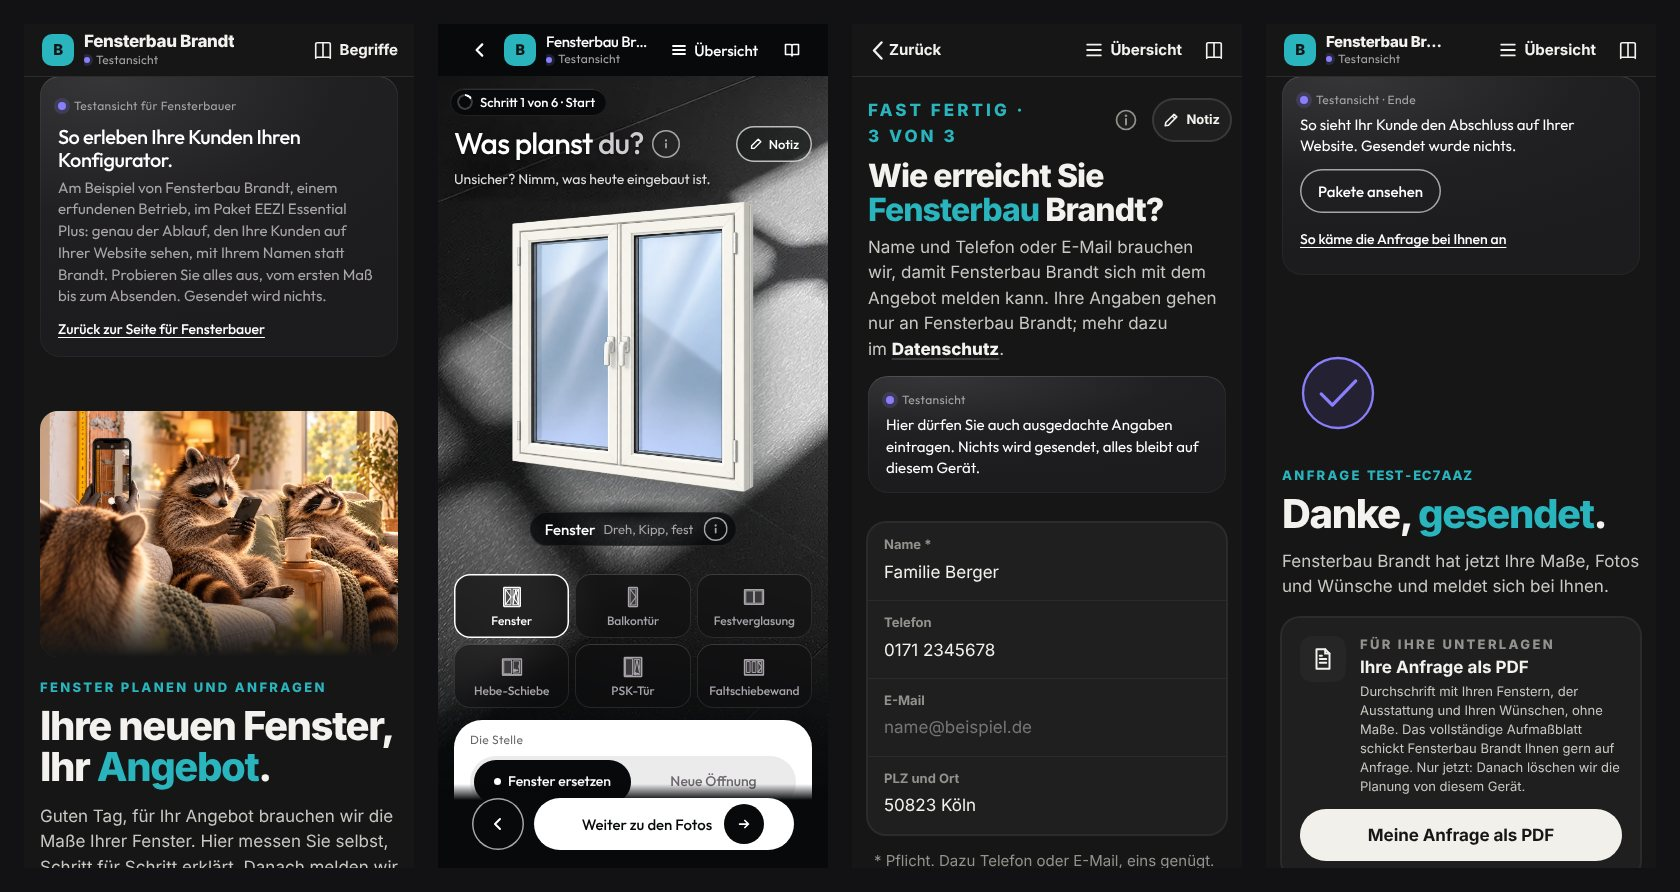
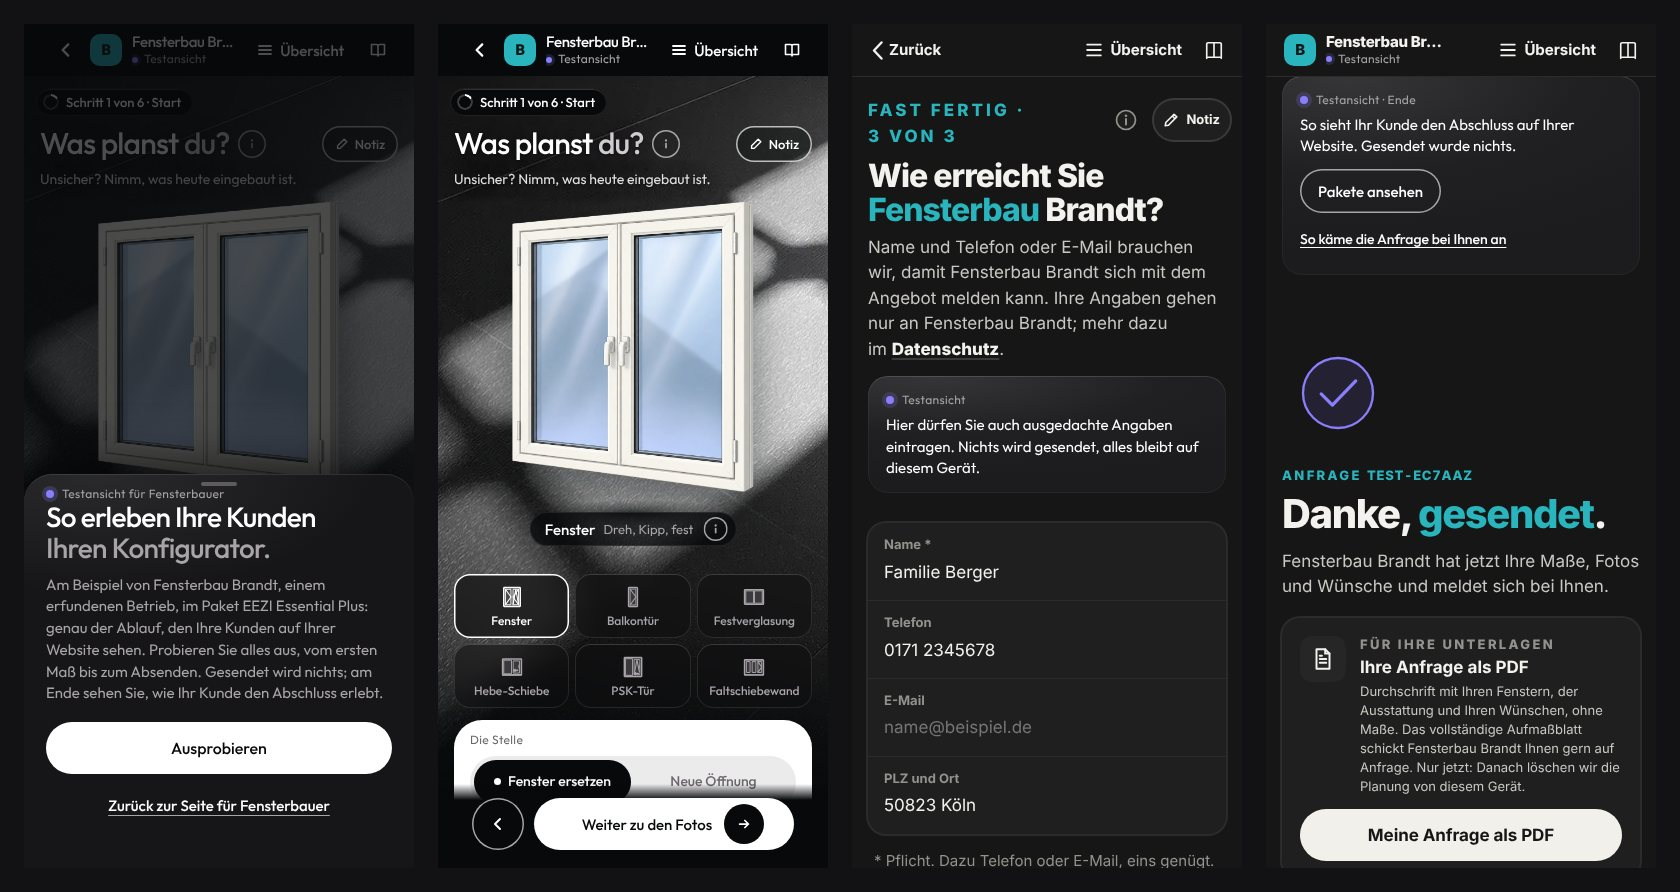
Testansicht beginnt auf der ersten Folie, Hinweis als Bogen darüber
„Selbst ausprobieren“ und „Fenster planen“ öffnen gleich die Folie „Was planst
du?“ (ein angefangenes Fenster wird fortgesetzt, ein abgeschlossener Test beginnt
neu). Beim ersten Öffnen im Tab liegt der Hinweis „Testansicht für Fensterbauer“
als Bogen darüber (Beispielbetrieb, Paket, „Gesendet wird nichts“, „Ausprobieren“,
Weg zurück); Escape und Zurück schließen ihn. Prüfung 25.11 und Doku angepasst.

Claude-Session: https://claude.ai/code/session_0184P5fGdniWcDaYecSm6W1G

Changed region(s): [[0.0, 0.0303, 0.2476, 0.9686]]

diff --git a/web/assets/app.js b/web/assets/app.js
@@ -2551,13 +2551,14 @@ function instanzWeitere() {
   return instanzStart().then((ok) => { if (ok) newWin(); else go('home'); });
 }
 /* „Auf diesem Gerät vergessen“: auch Nummer und Datum weg */
-function instanzVergessen() {
+function instanzVergessen(leise) { // leise: ohne Wechsel zur Startseite und ohne Meldung (Testansicht beginnt neu)
   instanzKuerzen();
   const alt = S.betrieb && S.betrieb.code;
   if (alt) { try { localStorage.removeItem('aufmass.k.' + alt); localStorage.removeItem('aufmass.k.' + alt + '.entwurf'); } catch (e) { /* ok */ } }
   instSchreiben('aktiv', ''); instSchreiben('gesendet', '');
   if (location.hash) { try { history.replaceState(null, '', location.pathname + location.search); } catch (e) { /* ok */ } }
   S.betrieb = instanzBetrieb(''); loadLink(); S.instGeraet = false;
+  if (leise) return;
   go('home'); toast('Auf diesem Gerät vergessen.');
 }
 const PROJ0 = { gebaeude: '', baujahr: '', total: '', zeit: '', budget: '', foerd: false, foerdweg: '', name: '', ort: '', tel: '', mail: '', erreich: '' }; // ohne Vorwahl („Alles freiwillig“): nur was der Kunde selbst wählt, steht auf dem Blatt und geht an den Betrieb
@@ -5665,6 +5666,7 @@ function sheetsHTML() {
   if (S.glossIndex) return glossIndexBlatt();
   if (S.wohin) return wohinBlatt();
   if (S.ohneFotoFrage && S.screen === 'fotos') return ohneFotoBlatt();
+  if (PROBE && S.probeHinweis) return probeHinweisBlatt();
   return '';
 }
 
@@ -5927,6 +5929,7 @@ function zurueckTaste() {
   if (S.wohin) { S.wohin = false; render(); return true; }
   if (S.wzKap) { S.wzKap = false; render(); const b = document.querySelector('.wz-band'); if (b) b.focus({ preventScroll: true }); return true; }
   if (S.ohneFotoFrage) { S.ohneFotoFrage = false; render(); return true; }
+  if (PROBE && S.probeHinweis) { probeHinweisZu(); return true; }
   if (S.qMass && S.screen === 'frage') { S.qMass = null; render(); return true; } // Zifferntasten in den Wünschen
   if (S.screen === 'messen' && S.mess && S.mess.pad) { messZu(); return true; } // Zifferntasten beim Messen: erst das Blatt zu
   if (S.screen === 'rest' && S.rest && S.rest.pad) { restZu(); return true; }
@@ -5956,6 +5959,7 @@ function escTaste() {
   if (S.wohin) { S.wohin = false; render(); return true; }
   if (S.wzKap) { S.wzKap = false; render(); const b = document.querySelector('.wz-band'); if (b) b.focus({ preventScroll: true }); return true; }
   if (S.ohneFotoFrage) { S.ohneFotoFrage = false; render(); return true; }
+  if (PROBE && S.probeHinweis) { probeHinweisZu(); return true; }
   if (S.qMass && S.screen === 'frage') { S.qMass = null; render(); return true; }
   if (S.screen === 'messen' && S.mess && S.mess.pad) { messZu(); return true; } // Zifferntasten beim Messen
   if (S.screen === 'rest' && S.rest && S.rest.pad) { restZu(); return true; }
@@ -7072,6 +7076,7 @@ function act(name, el) {
     case 'inst-weitere': return instanzWeitere();
     /* Testansicht für Fensterbauer (probeGesendet) */
     case 'probe-betrieb': S.probeSicht = 'betrieb'; return render(true);
+    case 'probe-hinweis-zu': return probeHinweisZu();
     case 'probe-kunde': S.probeSicht = 'kunde'; return render(true);
     case 'probe-blatt': return probeBlatt();
     case 'probe-neu': instanzVergessen(); return toast('Noch einmal von vorn: Ihre Testdaten sind gelöscht.');
@@ -7642,6 +7647,7 @@ function boot() {
   verlaufBinden(); // Zurück-Taste des Browsers bleibt in der App
   render(true);
   if (location.hash === '#fuehrung' && !S.betrieb) tourStart();
+  else if (PROBE) probeEinstieg(); // Testansicht für Fensterbauer: gleich die erste Folie, mit dem Hinweis darüber
   /* Einstieg von der Website („Jetzt ausmessen“, /app/#ausmessen): gleich der erste Schritt statt der Startseite der App; ein angefangenes
      Fenster wird fortgesetzt, ein Kundenlink hat Vorrang */
   else if (ausmessen && !S.betrieb) { if (KS) { EINSTIEG_NEU = true; setTimeout(einstiegNach, 8000); } else einstiegNeu(); }
@@ -7729,6 +7735,22 @@ function instWeiterKarte(du) {
     if (S.instGeraet) h += '<div class="inst-link"><input type="text" readonly value="' + esc(instWeiterLink()) + '" aria-label="Link zu dieser Planung"><div class="pill-row"><button type="button" class="pill" data-act="inst-link-kopieren">Link kopieren</button>' + (navigator.share ? '<button type="button" class="pill" data-act="inst-link-teilen">Teilen</button>' : '') + '</div><p class="sub">' + T('Wer diesen Link hat, sieht Ihre Planung. Geben Sie ihn nur an Personen weiter, denen Sie vertrauen.', 'Wer diesen Link hat, sieht deine Planung. Gib ihn nur an Personen weiter, denen du vertraust.') + '</p></div>';
   }
   return h + '</div>';
+}
+/* Testansicht für Fensterbauer, Einstieg (Wunsch des Inhabers, 28.10.2026: „Der Start soll quasi diese Maske sein, nur halt mit dem
+   Hinweis“): gleich die erste Folie „Was planst du?“, beim ersten Öffnen im Tab mit dem Hinweis als Bogen darüber. Ein angefangenes
+   Fenster wird fortgesetzt; ein abgeschlossener Test beginnt neu */
+function probeEinstieg() {
+  if (S.sent) instanzVergessen(true);
+  let gesehen = false; try { gesehen = sessionStorage.getItem('aufmass.probe.hinweis') === '1'; } catch (e) { gesehen = false; }
+  S.probeHinweis = !gesehen;
+  if (entwurfLesen()) entwurfFortsetzen(); else act('new', document.body);
+}
+function probeHinweisZu() { S.probeHinweis = false; try { sessionStorage.setItem('aufmass.probe.hinweis', '1'); } catch (e) { /* ok */ } render(); }
+function probeHinweisBlatt() {
+  return '<button type="button" class="sheet-bg" aria-label="Schließen" data-act="probe-hinweis-zu"></button><div class="sheet probe-blatt" role="dialog" aria-modal="true" aria-labelledby="pb-t" aria-describedby="pb-s"><div class="grip"></div>' +
+    '<p class="eyebrow kicker probe-blatt-label">Testansicht für Fensterbauer</p><h2 id="pb-t" tabindex="-1">So erleben Ihre Kunden <span class="ak">Ihren Konfigurator.</span></h2>' +
+    '<p class="vl-sub" id="pb-s">Am Beispiel von Fensterbau Brandt, einem erfundenen Betrieb, im Paket ' + esc(probePaketName()) + ': genau der Ablauf, den Ihre Kunden auf Ihrer Website sehen. Probieren Sie alles aus, vom ersten Maß bis zum Absenden. Gesendet wird nichts; am Ende sehen Sie, wie Ihr Kunde den Abschluss erlebt.</p>' +
+    '<div class="vl-knoepfe"><button type="button" class="btn primary" data-act="probe-hinweis-zu">Ausprobieren</button><a class="link vl-ab" href="' + PROBE_FB + '">Zurück zur Seite für Fensterbauer</a></div></div>';
 }
 /* Testansicht für Fensterbauer: Hinweis am Anfang (erste Seite), knapp über der Liste und nach dem Senden */
 function probeStart(art) {

diff --git a/web/assets/app.css b/web/assets/app.css
@@ -3121,3 +3121,7 @@ html.dna-voll .fb .qoffen[aria-pressed="true"] { box-shadow: inset 0 0 0 1.5px v
 .probe-aktionen { display: flex; flex-wrap: wrap; gap: 10px; margin-top: 12px }
 .probe-zurueck { justify-self: start; min-height: 44px; padding: 0; border: 0; background: none; color: var(--silbergrau); font: 400 14px/1.3 var(--font-sans); text-decoration: underline; text-underline-offset: 3px; cursor: pointer }
 @media (prefers-reduced-motion: reduce) { .probe-anhang, .probe-hinweis-los { transition: none } }
+/* Hinweis beim Einstieg in die Testansicht: Bogen über der ersten Folie, Etikett mit violettem Punkt */
+.sheet.probe-blatt .probe-blatt-label { display: inline-flex; align-items: center; gap: 8px; text-transform: none; letter-spacing: .03em }
+.sheet.probe-blatt .probe-blatt-label::before { content: ""; flex: none; width: 8px; height: 8px; border-radius: 50%; background: #897efc; box-shadow: 0 0 0 4px rgba(137, 126, 252, .18) }
+.sheet.probe-blatt .vl-ab { display: inline-flex; align-items: center; justify-content: center; min-height: 44px }

diff --git a/docs/INSTANZEN.md b/docs/INSTANZEN.md
@@ -323,7 +323,7 @@ Signature: Die Mails an den Betrieb kommen vom neutralen Postfach `MAIL_ABSENDER
 Demo-Instanzen der Verkaufsseite: Custom Domains `demo-essential.eeziframes.com`, `demo-plus.eeziframes.com`, `demo-signature.eeziframes.com` am Worker, in der Zentrale je eine Instanz ohne Bestellung mit Schalter „Demo“ (Anfragen gehen an `MAIL_KONTAKT` und verschwinden nach `FRISTEN.testTage` Tag). Die Verkaufsseite verlinkt sie erst mit der Variable `PAKETE_DEMOS=1`, vorher führt „Konfigurator ausprobieren“ in die App.
 
 
-Testansicht für Fensterbauer (28.10.2026, Wunsch des Inhabers: jeder Weg zum Ausprobieren auf der Seite für Fensterbauer führt in einen Bereich, der erkennbar zum Testen da ist; am Ende der Abschluss, wie ihn der Kunde eines Betriebs mit gebuchtem Paket sieht): „Selbst ausprobieren“ auf der Seite für Fensterbauer und „Konfigurator ausprobieren“ in deren Ratgebern führen auf `/app/?ausprobieren` (Paket Plus), „Fenster planen“ in den drei Paket-Beispielen auf `/app/?ausprobieren=essential|plus|signature` (docs/profis/werkzeuge/paketvorlagen.py, `fuer_web`). Die App läuft dann im Instanz-Modus als Fensterbau Brandt, der erfundene Betrieb der Beispiele, mit den öffentlichen Merkmalen des Pakets aus pakete.js (die App lädt dafür /assets/pakete.js) und der Firmenfarbe Aquatürkis, wo das Paket eine Farbe hat (`PROBE`, `PROBE_PAKET` in web/assets/app.js setzen `KONFIG.instanz` vor `INST`), ohne Führung und ohne Kauf. Alles bleibt im Browser: kein `/api/status`, kein Code vom Server (`instanzStart` vergibt ihn auf dem Gerät), kein Zwischenstand, keine Fotos hinauf, KI ohne Code wie auf der Hauptdomain. Erkennbar ist die Testansicht an der Karte am Anfang (`probeStart`: Beispielbetrieb, Paket, „Gesendet wird nichts“, Weg zurück), an „Testansicht“ unter dem Namen im Kopf jeder Folie, am Hinweis bei den Kontaktdaten und am Eintrag „Testansicht beenden“ in der Übersicht. Senden ist eine Simulation (`probeSenden`, Nummer `TEST-…`); das Ende ist die echte Bestätigung des Kunden mit dem Hinweis „So sieht Ihr Kunde den Abschluss auf Ihrer Website. Gesendet wurde nichts.“, „Pakete ansehen“ und, auf Wunsch, „So käme die Anfrage bei Ihnen an“: die E-Mail an den Betrieb mit dem Aufmaßblatt in der Variante `betrieb` als PDF (`probeBlatt`). Auf einer echten Instanz (KONFIG.instanz vom Server) gibt es die Testansicht nicht.
+Testansicht für Fensterbauer (28.10.2026, Wunsch des Inhabers: jeder Weg zum Ausprobieren auf der Seite für Fensterbauer führt in einen Bereich, der erkennbar zum Testen da ist; am Ende der Abschluss, wie ihn der Kunde eines Betriebs mit gebuchtem Paket sieht): „Selbst ausprobieren“ auf der Seite für Fensterbauer und „Konfigurator ausprobieren“ in deren Ratgebern führen auf `/app/?ausprobieren` (Paket Plus), „Fenster planen“ in den drei Paket-Beispielen auf `/app/?ausprobieren=essential|plus|signature` (docs/profis/werkzeuge/paketvorlagen.py, `fuer_web`). Die App läuft dann im Instanz-Modus als Fensterbau Brandt, der erfundene Betrieb der Beispiele, mit den öffentlichen Merkmalen des Pakets aus pakete.js (die App lädt dafür /assets/pakete.js) und der Firmenfarbe Aquatürkis, wo das Paket eine Farbe hat (`PROBE`, `PROBE_PAKET` in web/assets/app.js setzen `KONFIG.instanz` vor `INST`), ohne Führung und ohne Kauf. Alles bleibt im Browser: kein `/api/status`, kein Code vom Server (`instanzStart` vergibt ihn auf dem Gerät), kein Zwischenstand, keine Fotos hinauf, KI ohne Code wie auf der Hauptdomain. Sie beginnt gleich auf der ersten Folie „Was planst du?“ (`probeEinstieg`; ein angefangenes Fenster wird fortgesetzt, ein abgeschlossener Test beginnt neu). Erkennbar ist die Testansicht am Hinweis als Bogen über der ersten Folie (`probeHinweisBlatt`, einmal je Tab: Beispielbetrieb, Paket, „Gesendet wird nichts“, „Ausprobieren“, Weg zurück), an der Karte auf der Startseite des Betriebs (`probeStart`), an „Testansicht“ unter dem Namen im Kopf jeder Folie, am Hinweis bei den Kontaktdaten und am Eintrag „Testansicht beenden“ in der Übersicht. Senden ist eine Simulation (`probeSenden`, Nummer `TEST-…`); das Ende ist die echte Bestätigung des Kunden mit dem Hinweis „So sieht Ihr Kunde den Abschluss auf Ihrer Website. Gesendet wurde nichts.“, „Pakete ansehen“ und, auf Wunsch, „So käme die Anfrage bei Ihnen an“: die E-Mail an den Betrieb mit dem Aufmaßblatt in der Variante `betrieb` als PDF (`probeBlatt`). Auf einer echten Instanz (KONFIG.instanz vom Server) gibt es die Testansicht nicht.
 
 ### Zustände und was sie bedeuten
 

diff --git a/docs/GESTALTUNG.md b/docs/GESTALTUNG.md
@@ -580,7 +580,8 @@ Wünsche (`frageDna`), Schritt 1 „Was planst du?“ (`startDna`) und Schritt 2
   - Testansicht für Fensterbauer (Wunsch des Inhabers, 28.10.2026: „Selbst ausprobieren“ soll nicht in die Führung und nicht in das
     eigene Aufmaß mit „an beliebig viele“ führen; jeder Weg zum Ausprobieren zeigt, dass man im Bereich zum Testen ist; am Ende die
     Ansicht des Kunden eines Betriebs mit Paket): `/app/?ausprobieren[=<paket>]` zeigt den Konfigurator wie auf der Website eines
-    Betriebs (Fensterbau Brandt, Merkmale des Pakets). Hinweise als Anthrazit-Karten mit violettem Punkt (am Anfang, bei den
+    Betriebs (Fensterbau Brandt, Merkmale des Pakets), beginnend gleich mit der ersten Folie „Was planst du?“ und dem Hinweis als Bogen
+    im Look der Bögen darüber („Ausprobieren“). Hinweise als Anthrazit-Karten mit violettem Punkt (Startseite des Betriebs, bei den
     Kontaktdaten, über der Bestätigung), im Kopf jeder Folie „Testansicht“ mit violettem Punkt unter dem Namen. Das Ende ist die
     Bestätigung des Kunden, darüber „Pakete ansehen“ als Umriss-Pille; auf Wunsch eine DNA-Folie mit dem Blatt auf der Bühne (Kopfband mit
     dem Namen des Betriebs) und der E-Mail an den Betrieb als einziger weißer Karte. Ablauf und Technik in docs/INSTANZEN.md.
